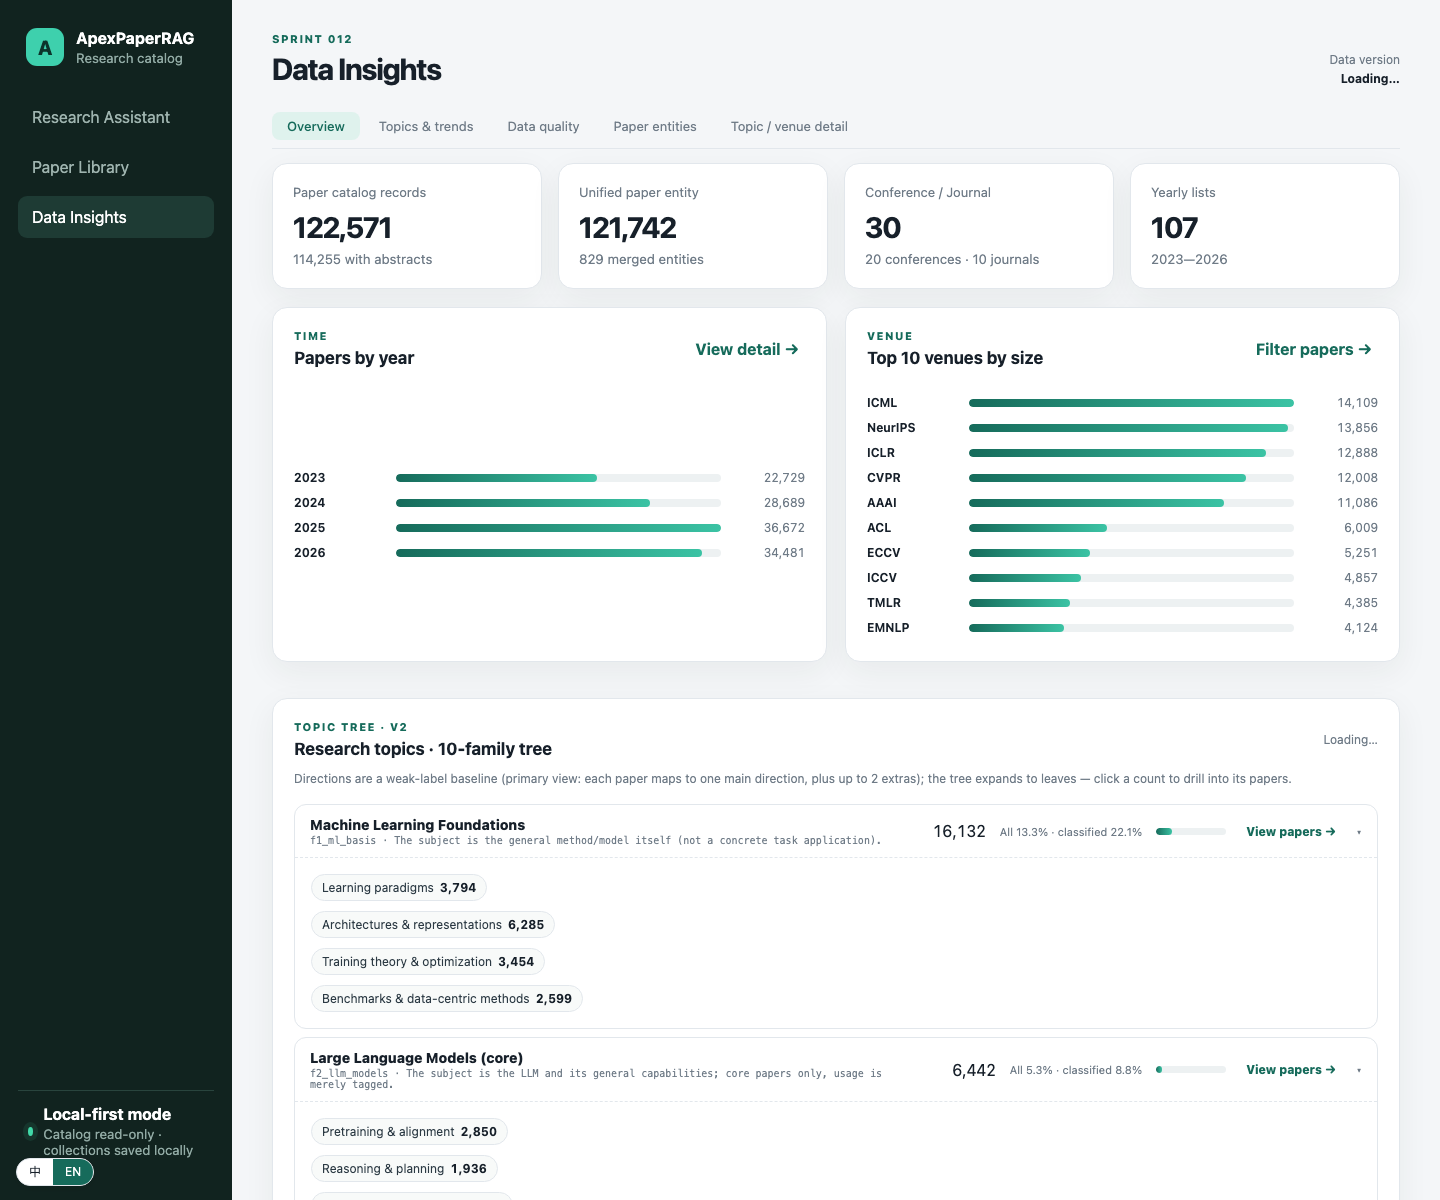
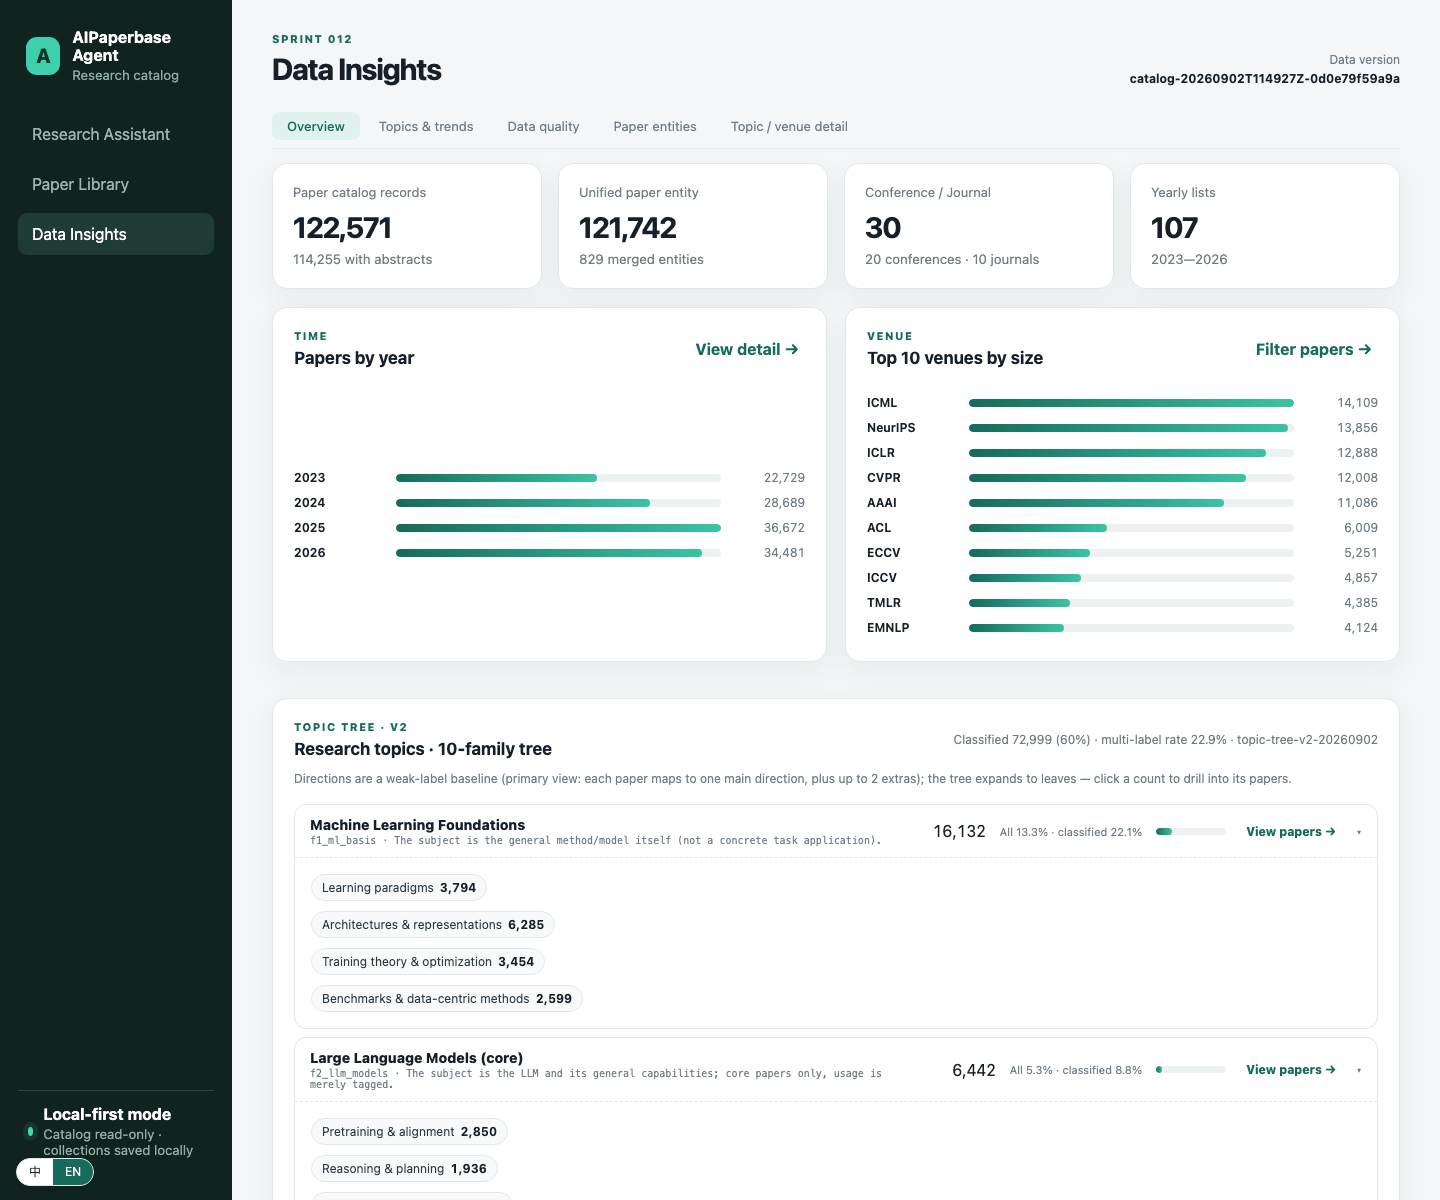
i18n(en): translate overview topic/venue summary lines; refresh README screenshot

Changed region(s): [[0.0, 0.0, 0.125, 0.2158], [0.7812, 0.0617, 0.9688, 0.0925]]

diff --git a/frontend/i18n.js b/frontend/i18n.js
@@ -306,6 +306,8 @@
     "构成论文": "Constituent papers",
     "（族根主题构成）": "(constituent topics of this family)",
     "清单状态": "List status",
+    "已分类": "Classified",
+    "多标签率": "Multi-label rate",
     "构建通过": "Build passed",
     "评估版本：": "Evaluation version: ",
     "分类版本：": "Classification version: ",
@@ -339,6 +341,7 @@
     { toEn: /(\d+)\s*个Conference\s*·\s*(\d+)\s*个Journal/, toZh: /(\d+) conferences · (\d+) journals/, en: "$1 conferences · $2 journals", zh: "$1 个Conference · $2 个Journal" },
     { toEn: /([\d.]+)%\s*的全量实体命中至少一个主题/, toZh: /([\d.]+)% of all entities match at least one topic/, en: "$1% of all entities match at least one topic", zh: "$1% 的全量实体命中至少一个主题" },
     { toEn: /全库\s*([\d.]+)%\s*·\s*已分类\s*([\d.]+)%/, toZh: /All\s*([\d.]+)% · classified\s*([\d.]+)%/, en: "All $1% · classified $2%", zh: "全库 $1% · 已分类 $2%" },
+    { toEn: /已分类\s*([\d,]+)（([\d.]+)%）\s*·\s*多标签率\s*([\d.]+)%\s*·\s*(.*)$/, toZh: /Classified\s*([\d,]+) \(([\d.]+)%\)\s*·\s*multi-label rate\s*([\d.]+)%\s*·\s*(.*)$/, en: "Classified $1 ($2%) · multi-label rate $3% · $4", zh: "已分类 $1（$2%）· 多标签率 $3% · $4" },
     { toEn: /\+\s*(\d+)\s*类/, toZh: /\+\s*(\d+) more/, en: "+$1 more", zh: "+$1 类" },
     { toEn: /([\d,]+)\s*个文件/, toZh: /([\d,]+) files/, en: "$1 files", zh: "$1 个文件" },
     { toEn: /([\d,]+)\s*条记录/, toZh: /([\d,]+) records/, en: "$1 records", zh: "$1 条记录" },
@@ -355,6 +358,7 @@
     { toEn: /([\d,]+)\s*条已有摘要/, toZh: /([\d,]+) with abstracts/, en: "$1 with abstracts", zh: "$1 条已有摘要" },
     { toEn: /尚待\s*([\d,]+)\s*条/, toZh: /([\d,]+) pending/, en: "$1 pending", zh: "尚待 $1 条" },
     { toEn: /(\d+)\s*个会议\s*·\s*(\d+)\s*个期刊/, toZh: /(\d+) conferences · (\d+) journals/, en: "$1 conferences · $2 journals", zh: "$1 个会议 · $2 个期刊" },
+    { toEn: /([\d,]+)\s*个\s*venue\s*·\s*会议\s*(\d+)\s*·\s*期刊\s*(\d+)/, toZh: /([\d,]+) venues · (\d+) conferences · (\d+) journals/, en: "$1 venues · $2 conferences · $3 journals", zh: "$1 个venue · 会议 $2 · 期刊 $3" },
     { toEn: /共\s*([\d,]+)\s*篇/, toZh: /([\d,]+) papers/, en: "$1 papers", zh: "共 $1 篇" },
     { toEn: /([\d,]+)\s*最终\s*·\s*([\d,]+)\s*滚动/, toZh: /([\d,]+) final · ([\d,]+) rolling/, en: "$1 final · $2 rolling", zh: "$1 最终 · $2 滚动" },
     { toEn: /(\d+)\s*个阻塞问题/, toZh: /(\d+) blocking issues/, en: "$1 blocking issues", zh: "$1 个阻塞问题" },
